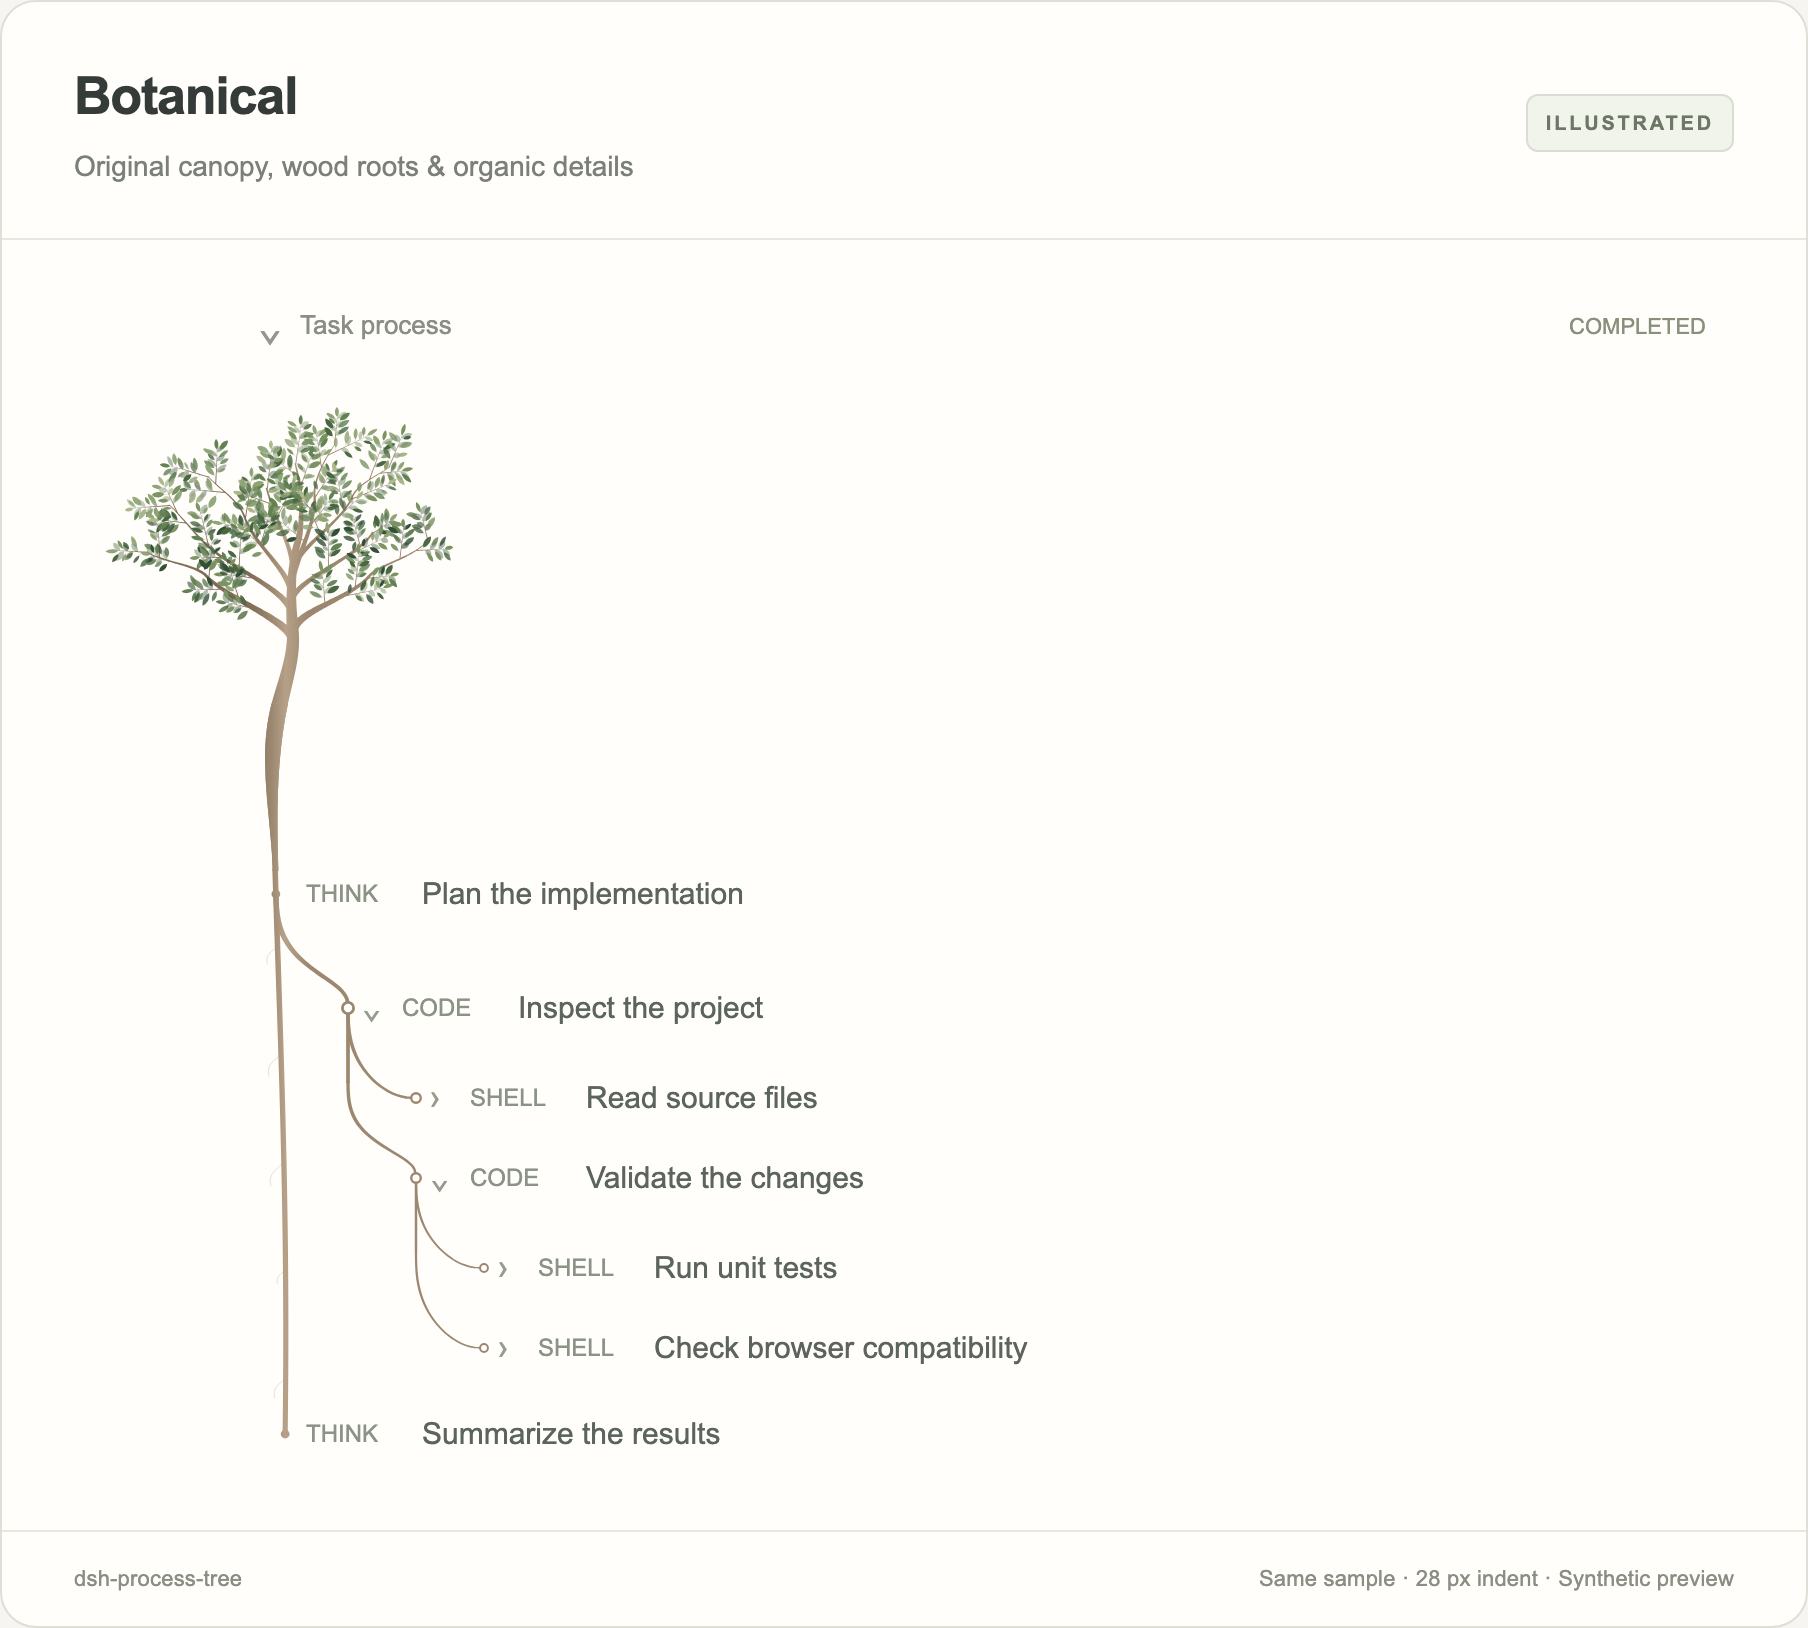
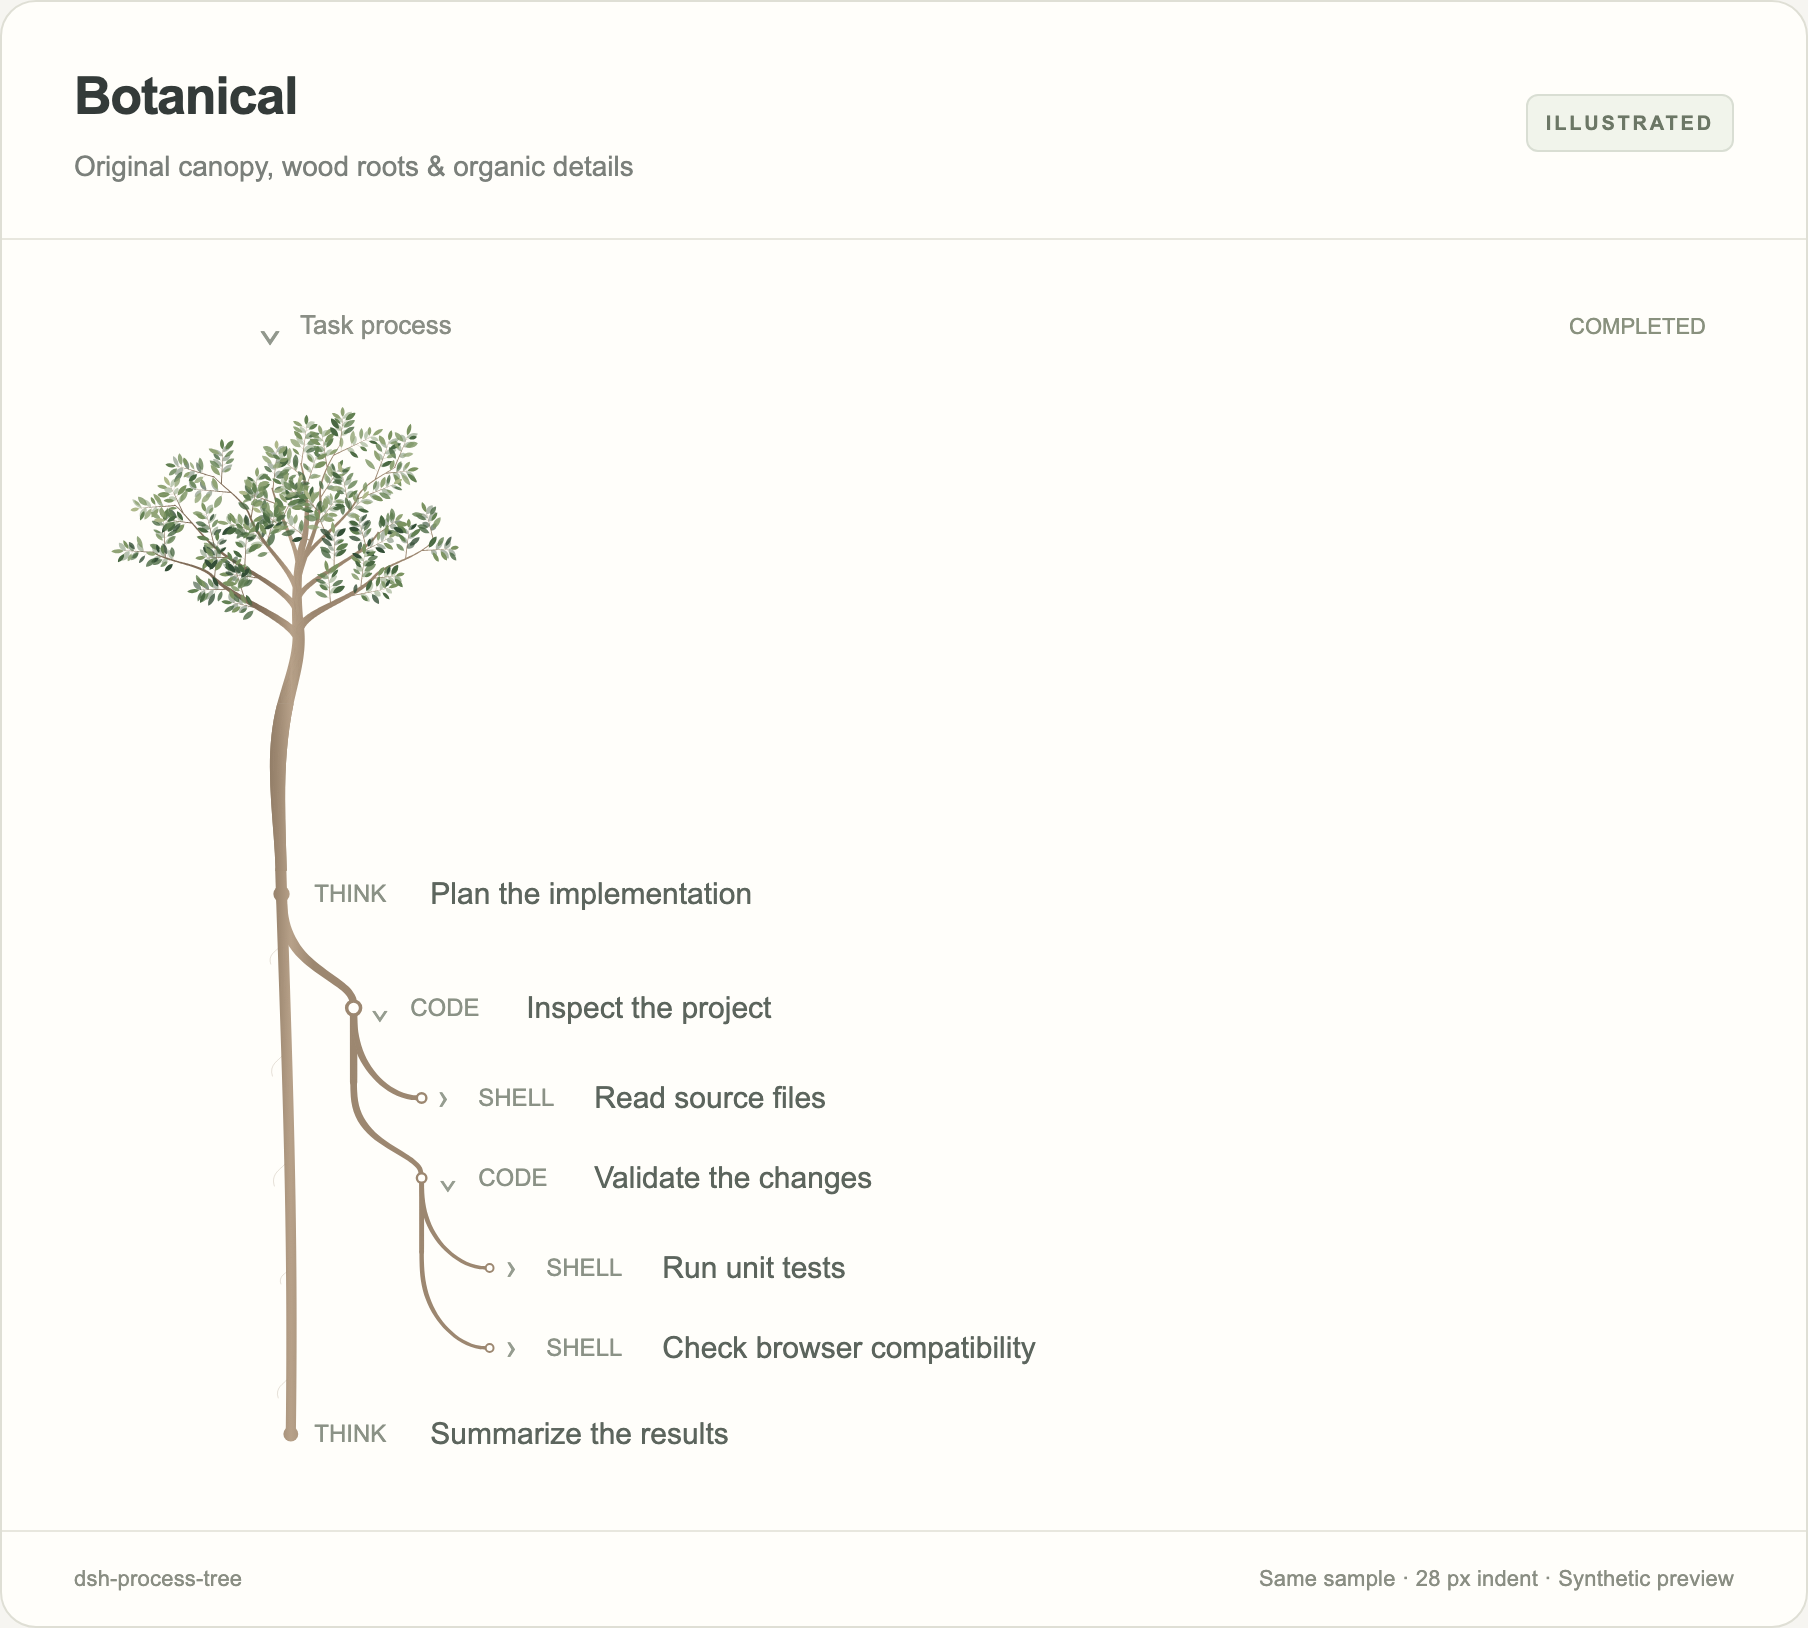
Thicken botanical roots and refresh style previews for 0.7.4

diff --git a/client.js b/client.js
@@ -66,7 +66,7 @@ window.__ModuleLoader__.load({
       dotSize: QUIET_DOT_SIZE,
       dotFollowWidth: false,
     }),
-    botanical: ORGANIC_PRESET,
+    botanical: Object.freeze({ ...ORGANIC_PRESET, lineWidth: 5.6 }),
     classic: ORGANIC_PRESET,
   })
   const DEFAULTS = Object.freeze({

diff --git a/docs/COMPATIBILITY.md b/docs/COMPATIBILITY.md
@@ -1,6 +1,6 @@
 # Compatibility / 兼容性
 
-Release candidate: 0.7.3. Host version declarations are limited to verified releases.
+Release candidate: 0.7.4. Host version declarations are limited to verified releases.
 
 ## Test levels / 验证层次
 
@@ -8,6 +8,15 @@ Release candidate: 0.7.3. Host version declarations are limited to verified rele
 - Browser: real Chromium, ResizeObserver, IntersectionObserver, SVG and React on synthetic host-shaped markup. This verifies renderer behavior and cleanup, without model requests or private data.
 - Host: exact packed plugin loaded by a separate real DSH Web host with a new DSH_HOME, with and without an unchanged upstream theme. Real-host settings and activation checks are recorded separately from synthetic transcript checks.
 - Native Desktop: separate acceptance; a Web result does not establish Desktop scrolling performance.
+
+## 0.7.4 botanical roots / 植物根系加粗
+
+The botanical preset now uses a 5.6 px line width, up from 2.8 px. Classic
+remains the default with its existing width, and quiet is unchanged. Explicit
+saved widths are preserved; selecting botanical reapplies its thicker preset.
+README previews were regenerated from the actual renderer. Version-specific
+checks and remaining limits are in [0.7.4 verification](verification/0.7.4.json).
+Native Desktop acceptance was not repeated for this preset-only update.
 
 ## 0.7.3 default-style update / 默认风格更新
 
@@ -110,7 +119,7 @@ npm pack
 mkdir -p .release-checks/host
 export DSH_HOME="$PWD/.release-checks/host/home"
 dsh --profile web --dump-config > .release-checks/host/config.txt
-dsh plugin --profile web add "$PWD/dsh-process-tree-0.7.3.tgz"
+dsh plugin --profile web add "$PWD/dsh-process-tree-0.7.4.tgz"
 # For the second environment, use a different empty home and add the stock theme:
 # dsh plugin --profile web add dsh-claude-style@0.19.1
 dsh --profile web --patch ./test/fixtures/cordis.patch.yml \

diff --git a/README.en.md b/README.en.md
@@ -24,7 +24,7 @@ Uniform thin strokes, rounded corners and smaller dots.
 
 ### Botanical
 
-Original canopy artwork and wood roots connect the calls into a tree.
+Original canopy artwork and thicker wood roots (5.6 px line-width preset) connect the calls into a tree.
 
 ![Botanical style with a full canopy, wood trunk and nested calls](docs/images/botanical.png)
 
@@ -41,7 +41,7 @@ dsh plugin --profile web add "github:Bosaiting/dsh-process-tree#main"
 For a pinned version, replace `main` with the full commit SHA. The initial public upload contains source; no GitHub Release has been published yet. A separately obtained package archive can also be installed locally:
 
 ```sh
-dsh plugin --profile web add ./dsh-process-tree-0.7.3.tgz
+dsh plugin --profile web add ./dsh-process-tree-0.7.4.tgz
 ```
 
 Restart the corresponding DSH instance. Use Desktop's plugin manager for its managed configuration. The Desktop-bundled CLI also handled its `desktop` profile in the verified macOS build; a separately installed CLI may differ. No install-time build is required. Claude Style is optional. Disable overlapping indentation or process-connector plugins, including `dsh-tool-indent`, to avoid competing spacing and CSS variables.

diff --git a/README.md b/README.md
@@ -24,7 +24,7 @@
 
 ### 植物手稿
 
-原创树冠与木质根系，将调用层级连接成一棵树。
+原创树冠与更粗的木质根系（5.6 px 线宽预设），将调用层级连接成一棵树。
 
 ![植物手稿模式：完整树冠、木质主干及嵌套调用](docs/images/botanical.png)
 
@@ -41,7 +41,7 @@ dsh plugin --profile web add "github:Bosaiting/dsh-process-tree#main"
 需要固定版本时，将 `main` 换为完整提交 SHA。首次公开上传包含源码；当前尚未发布 GitHub Release。拿到打包文件后，也可以本地安装：
 
 ```sh
-dsh plugin --profile web add ./dsh-process-tree-0.7.3.tgz
+dsh plugin --profile web add ./dsh-process-tree-0.7.4.tgz
 ```
 
 安装后重新启动对应的 DSH 实例。桌面版通过其插件管理入口安装到桌面配置；已验证的 macOS 版本也可由桌面程序自带的 CLI 管理 `desktop` profile，单独安装的 CLI 行为可能不同。不要直接修改桌面安装目录。该插件不需要安装时构建或构建脚本许可。

diff --git a/CHANGELOG.md b/CHANGELOG.md
@@ -1,5 +1,11 @@
 # Changelog
 
+## 0.7.4
+
+- Increase the botanical root preset from 2.8 px to 5.6 px, retaining taper and texture.
+- Keep classic and quiet preset widths unchanged; preserve explicitly saved custom widths.
+- Refresh all three README previews using the actual renderer.
+
 ## 0.7.3
 
 - Make classic curves the default for fresh installations and settings without a valid style.
